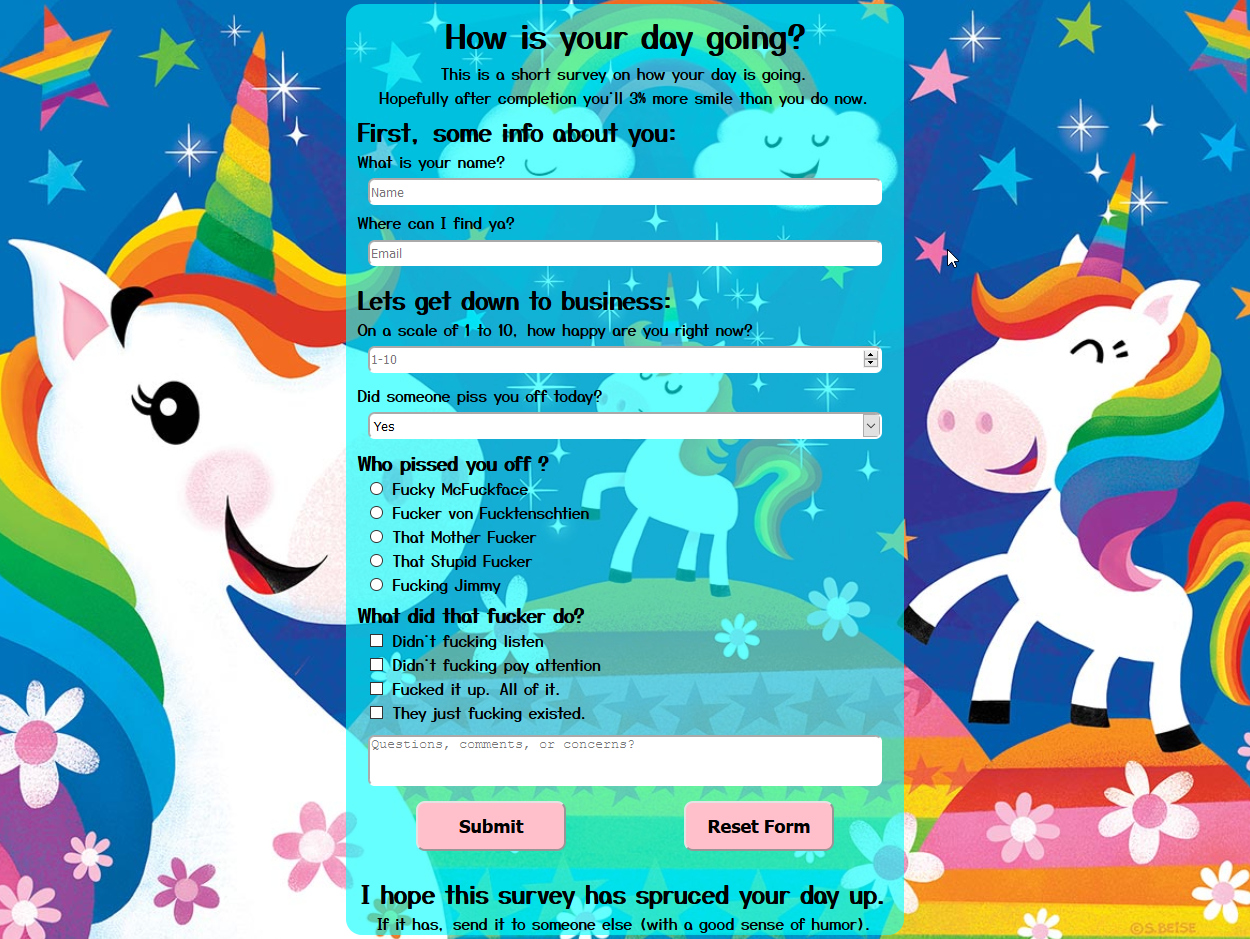
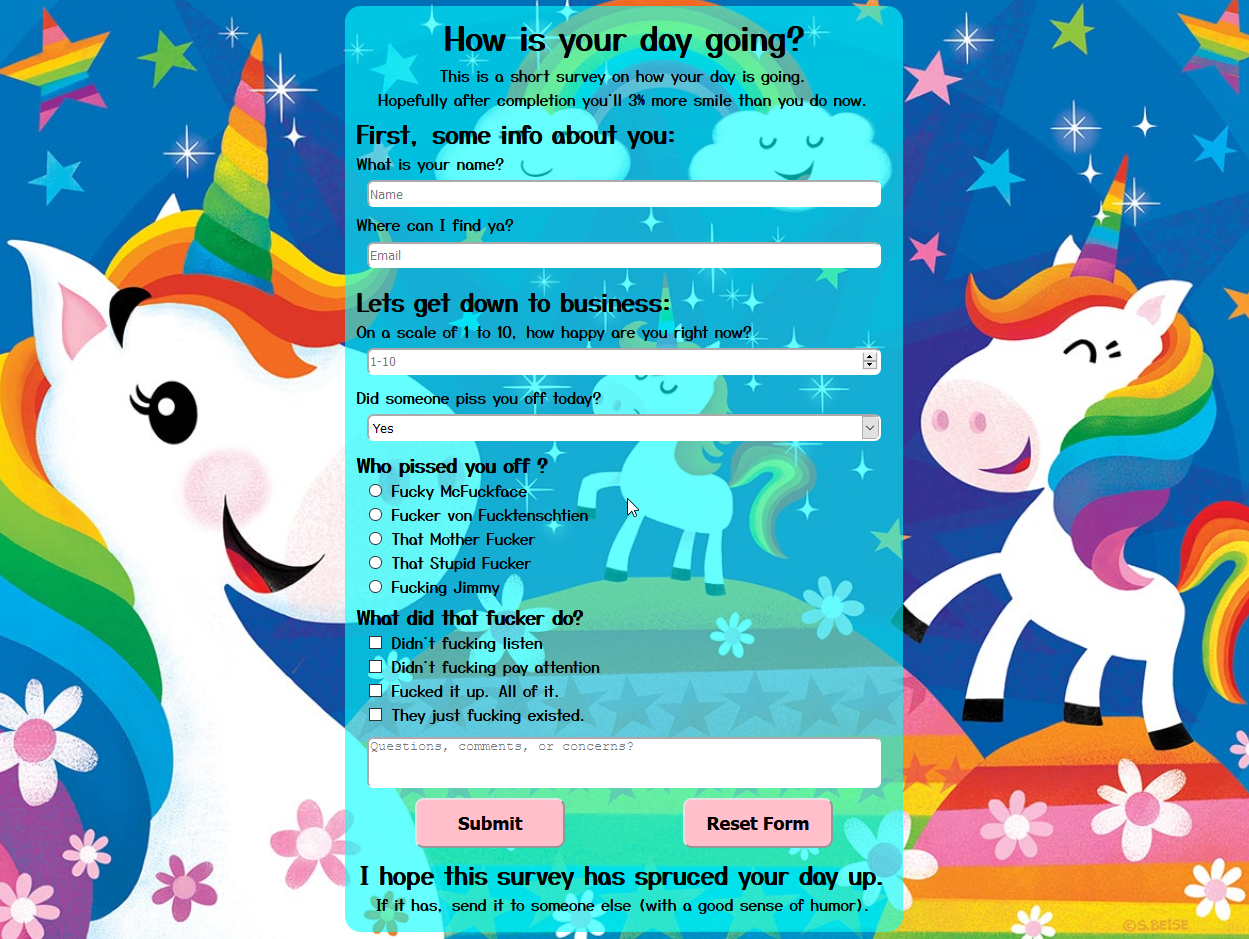
add functionality to complete challenge, added tribute ss, updated survey ss

diff --git a/HappinessSurvey/happinessSurvey.html b/HappinessSurvey/happinessSurvey.html
@@ -6,6 +6,7 @@
     <link rel="preconnect" href="fonts.gstatic.com">
     <link rel="preconnect" href="https://fonts.gstatic.com">
     <link href="https://fonts.googleapis.com/css2?family=Open+Sans&family=Roboto+Slab&family=Yusei+Magic&display=swap" rel="stylesheet">
+    <script src="https://cdn.freecodecamp.org/testable-projects-fcc/v1/bundle.js" ></script>
   </head>
   
   
@@ -22,17 +23,17 @@
       
         <div id="contact-info" class="body">
           <h2>First, some info about you:</h2>
-          <p id="name-label">What is your name?</p>
-          <input id="name" type="text" placeholder="Name" class="input">
-          <p id="email-label">Where can I find ya?</p>
-          <input id="email" type="email" placeholder="Email" class="input">
+          <label for="name" id="name-label">What is your name?</label>
+          <input id="name" type="text" placeholder="Name" class="input" required="required">
+          <label for="email" id="email-label">Where can I find ya?</label>
+          <input id="email" type="email" placeholder="Email" class="input" required="required">
         </div>
       
         <div id="main-survey" class="body">
       
           <div id="how-happy">
             <h2>Lets get down to business:</h2>
-            <p id="number-label">On a scale of 1 to 10, how happy are you right now?</p>
+            <label for="number" id="number-label">On a scale of 1 to 10, how happy are you right now?</label>
             <input id="number" type="number" placeholder="1-10" min=0 max=10 class="input">
       
             <div id="are-you-pissed">
@@ -49,27 +50,27 @@
             <h3>Who pissed you off ?</h3>
       
             <label for="radio">
-              <input id="radio" type="radio" name="who-done-it" class="option">
+              <input id="radio" type="radio" name="who-done-it" class="option" value="fuckface">
               Fucky McFuckface
             </label><br> 
       
             <label for="radio-1">
-              <input id="radio-1" type="radio" name="who-done-it" class="option">
+              <input id="radio-1" type="radio" name="who-done-it" class="option" value="fucktenschtien">
               Fucker von Fucktenschtien
             </label><br>
       
             <label for="radio-2">
-              <input id="radio-2" type="radio" name="who-done-it" class="option">
+              <input id="radio-2" type="radio" name="who-done-it" class="option" value="motherfucker">
               That Mother Fucker
             </label><br>
       
             <label for="radio-3">
-              <input id="radio-3" type="radio" name="who-done-it" class="option">
+              <input id="radio-3" type="radio" name="who-done-it" class="option" value="stupid">
               That Stupid Fucker
             </label><br>
       
             <label for="radio-4">
-              <input id="radio-4" type="radio" name="who-done-it" class="option">
+              <input id="radio-4" type="radio" name="who-done-it" class="option" value="fucking-jimmy">
               Fucking Jimmy
             </label><br>
           </div>
@@ -103,9 +104,9 @@
         <div id="followup" class="body">
           <textarea class="input" id="followup-input" placeholder="Questions, comments, or concerns?" ></textarea>
           <br>
-          <div id="submit">
-            <button id="submit-button" type="sumbit" value="Submit">Submit</button>
-            <button id="reset-button" type="reset" value="Reset">Reset Form</button>
+          <div id="sub-res">
+            <button id="submit" type="sumbit" value="Submit">Submit</button>
+            <button id="reset" type="reset" value="Reset">Reset Form</button>
           </div>
         </div>
 

diff --git a/HappinessSurvey/happinessSurvey.css b/HappinessSurvey/happinessSurvey.css
@@ -35,6 +35,9 @@ button {
     font-size: 18;
     font-weight: bold;
 }
+form {
+    margin-bottom: 0;
+}
 .body {
     display: flex;
     flex-direction: column;
@@ -64,6 +67,7 @@ button {
     width: 45%;
     height: auto;
     align-self: center;
+    padding-bottom: 1em;
 }
 .input {
     margin: 1%;
@@ -88,8 +92,7 @@ button {
     height: 25%;
     resize: none;
 }
-#submit {
-    margin-top: 5px;
+#sub-res {
     display: flex;
     flex-direction: row;
     justify-content: space-around;
